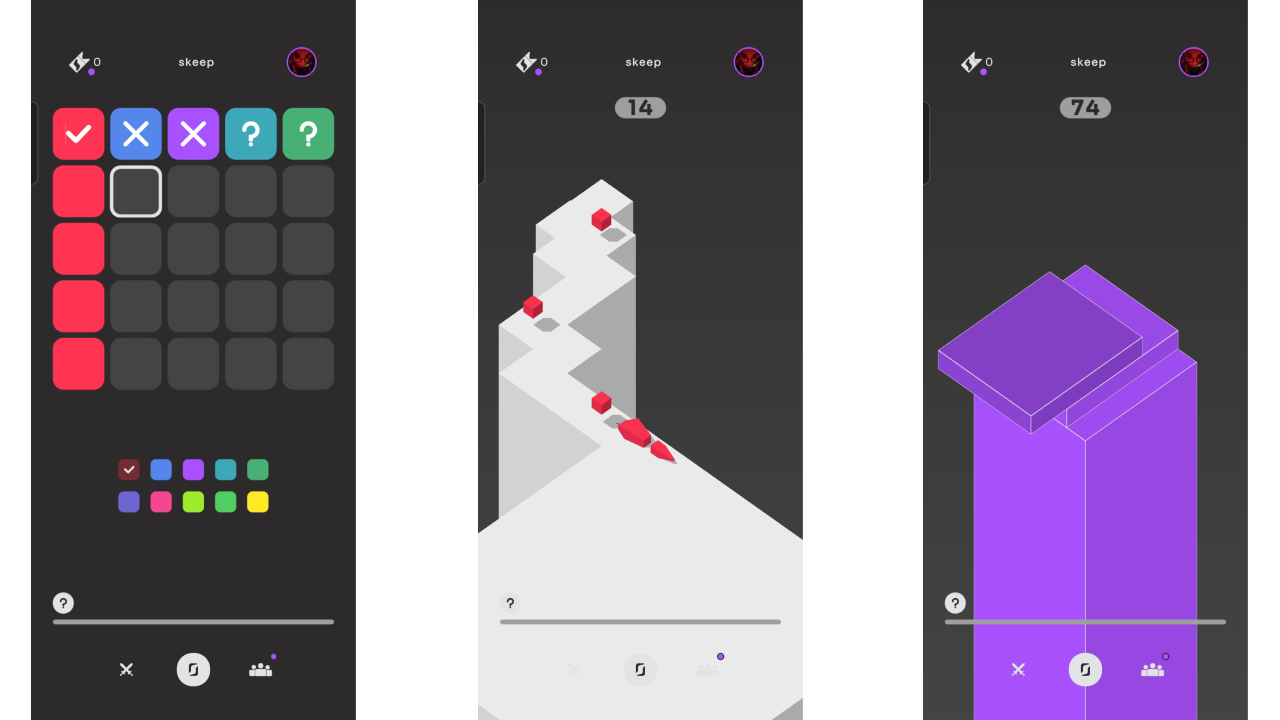
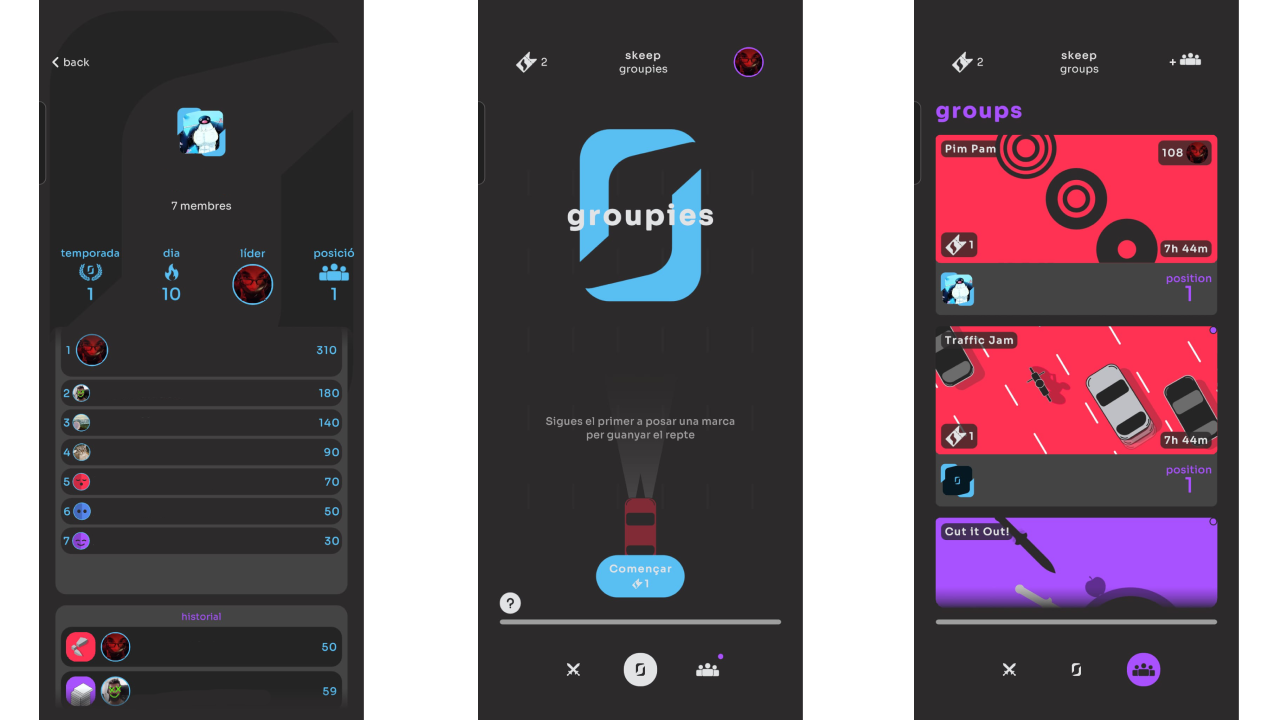
Added arrow, now all pictures are the same size

diff --git a/index.html b/index.html
@@ -12,6 +12,23 @@
 </head>
 
 <body>
+    <header class="site-nav fixed inset-x-0 top-0 z-50">
+        <!-- Navigation bar -->
+        <nav aria-label="Global" class="flex items-center justify-between px-6 lg:px-8" style="height: 60px;">
+            <div class="flex lg:flex-1">
+                <a href="/" class="-m-1.5 p-1.5">
+                    <span class="sr-only">skeep</span>
+                    <img src="./src/img/skeep-isotip-v1.2@512.png" alt="" class="h-8 w-auto" />
+                </a>
+            </div>
+            <!-- Desktop menu -->
+            <div class="hidden lg:flex lg:flex-1 lg:justify-end">
+                <p class="text-xs text-gray-400 md:text-sm">Copyright 2026 &copy; Social Jam S.L</p>
+            </div>
+        </nav>
+        <hr class="border-gray-200 dark:border-gray-700" />
+    </header>
+
     <div class="relative isolate bg-stone-950 h-screen overflow-hidden">
         <div aria-hidden="true" class="absolute inset-0 -z-10">
             <div style="
@@ -25,23 +42,6 @@
               background: rgba(0, 0, 0, 0);
             "></div>
         </div>
-        <header class="absolute inset-x-0 top-0 z-50">
-            <!-- Navigation bar -->
-            <nav aria-label="Global" class="flex items-center justify-between px-6 lg:px-8" style="height: 60px;">
-                <div class="flex lg:flex-1">
-                    <a href="/" class="-m-1.5 p-1.5">
-                        <span class="sr-only">skeep</span>
-                        <img src="./src/img/skeep-isotip-v1.2@512.png" alt="" class="h-8 w-auto" />
-                    </a>
-                </div>
-                <!-- Desktop menu -->
-                <div class="hidden lg:flex lg:flex-1 lg:justify-end">
-                    <p class="text-xs text-gray-400 md:text-sm">Copyright 2026 &copy; Social Jam S.L</p>
-                </div>
-            </nav>
-            <hr class="border-gray-200 dark:border-gray-700" />
-
-        </header>
 
         <div class="relative isolate px-6 pt-14 lg:px-8">
             <div class="mx-auto max-w-2xl py-32 sm:py-48 lg:py-56">
@@ -55,6 +55,11 @@
             </div>
         </div>
 
+        <div class="scroll-cue">
+            <span class="text-center">Discover more!</span>
+            <img src="./src/img/arrow.png" alt="" class="scroll-cue__arrow" />
+        </div>
+
     </div>
     <!-- /hero -->
 
@@ -65,18 +70,19 @@
                     <h2 class="content-title">A universe of games</h2>
                     <div class="content-eyebrow">Fun at your own pace, with or without friends, anywhere in the world</div>
                 </div>
-                <!-- Row 1: text / text -->
-                <div class="content-columns">
+                <!-- Row 1: text / image -->
+                <div class="content-columns content-columns--wide-right content-columns--center">
                     <div class="content-col">
                         <h3>Unlimited, endless fun all in one app</h3>
                         <p>skeep brings all your favourite single player minigames and multplayer turn-based games to your pocket!<br>
-                            Play what you like, and skeep what you don't! Scroll, play or start a match with friends in seconds, no downloads per game, no waiting around.<br> <br>
+                            Play what you like, and skeep what you don't! <br> 
+                            Scroll, play or start a match with friends in seconds, no downloads per game, no waiting around.<br> 
                         </p>
                         <h3>What is skeep?</h3>
                         <p>
                             <li><strong>Play</strong> logic, reflexes or dexterity-based games curated for quick play.</li>
                             <li><strong>Challenge</strong> friends directly in turn-based games to see who is the very best.</li>
-                            <li><strong>Compete</strong> against all your friends to see who holds the highest score in an endless, free-for-all mode.</li>
+                            <li><strong>Compete</strong> against all your friends daily to see who holds the highest score in an endless, free-for-all game-mode.</li>
                         </p>
                     </div>
                     <div class="content-col">
@@ -91,8 +97,7 @@
                 <div class="content-header">
                     <h2 class="content-title">PLAY</h2>
                 </div>
-                <div class="content-columns content-columns--wide-right content-columns--center">
-                    
+                <div class="content-columns content-columns--wide-left content-columns--center">
                     <div class="content-col">
                         <img src="./src/img/play-img.png" alt="skeep" />
                     </div>
@@ -114,7 +119,7 @@
                 <div class="content-columns content-columns--wide-right content-columns--center">
                     <div class="content-col">
                         <p>Challenge your friends to play turn-based minigames and find out who the better player! <br>
-                           Your historic score is kept in the app, so you will never have no doubts on who the very best is!</p>
+                           Your historic score is kept in the app, so you will never have doubts on who the very best is!</p>
                     </div>
                     <div class="content-col">
                         <img src="./src/img/challenge-img.png" alt="skeep" />
@@ -128,7 +133,7 @@
                 <div class="content-header">
                     <h2 class="content-title">COMPETE</h2>
                 </div>
-                <div class="content-columns content-columns--wide-right content-columns--center">
+                <div class="content-columns content-columns--wide-left content-columns--center">
                     <div class="content-col">
                         <img src="./src/img/compete-img.png" alt="skeep" />
                     </div>
@@ -143,7 +148,6 @@
         </section>
     </main>
 
-    <!-- Footer — scroll-aware, matching the legal pages -->
     <footer class="scroll-footer flex items-center justify-between p-6 lg:px-8">
         <div class="w-full md:w-1/2 md:text-start md:mb-0 mb-8">
             <p class="text-xs text-gray-400 md:text-sm">All Rights Reserved</p>
@@ -165,10 +169,10 @@
 
         function onScroll() {
             var y = window.scrollY;
-            var goingDown = y > lastY;
+            var goingUp = y < lastY;
             var pastThreshold = y > 80;
 
-            if (goingDown && pastThreshold) {
+            if (goingUp && pastThreshold) {
                 footer.classList.add('footer-hidden');
             } else {
                 footer.classList.remove('footer-hidden');

diff --git a/src/sections.css b/src/sections.css
@@ -1,8 +1,7 @@
 
-
 .content-section {
   background: #0a0a0f;
-  padding: 3rem 1.5rem;
+  padding: 6rem 1.5rem;
 }
 
 .content-section__inner {
@@ -47,6 +46,7 @@
   max-width: 46ch;
 }
 
+/* ── Columns ── */
 .content-columns {
   display: grid;
   grid-template-columns: 1fr 1fr;
@@ -137,8 +137,6 @@
   border: 1px solid rgba(255, 255, 255, 0.08);
 }
 
-/* Optional: wrap non-<img> media (video, canvas, an inline SVG) in
-   .content-media to get the same treatment as .content-col img. */
 .content-media {
   display: block;
   width: 100%;
@@ -147,8 +145,6 @@
   overflow: hidden;
 }
 
-/* Optional: a dashed placeholder frame for blocking out an image
-   column before real art exists. Swap for a real <img> later. */
 .content-media-placeholder {
   display: flex;
   align-items: center;
@@ -178,7 +174,7 @@
   right: 0;
   bottom: 0;
   z-index: 100;
-  background: rgba(10, 10, 15, 0.30);
+  background: rgba(10, 10, 15, 0.25);
   backdrop-filter: blur(16px);
   -webkit-backdrop-filter: blur(16px);
   border-top: 1px solid rgba(255, 255, 255, 0.08);
@@ -190,6 +186,53 @@
   transform: translateY(100%);
 }
 
-main {
-  padding-bottom: 5.5rem;
+.content-section:last-of-type {
+  padding-bottom: 11.5rem;
+}
+
+.site-nav {
+  background: rgba(10, 10, 15, 0.25);
+  backdrop-filter: blur(16px);
+  -webkit-backdrop-filter: blur(16px);
+}
+
+.scroll-cue {
+  position: absolute;
+  left: 50%;
+  bottom: 6rem;
+  transform: translateX(-50%);
+  z-index: 10;
+  display: flex;
+  flex-direction: column;
+  align-items: center;
+  gap: 0.5rem;
+  padding: 0.5rem;
+  opacity: 0.85;
+  transition: opacity 0.2s ease;
+}
+
+.scroll-cue:hover {
+  opacity: 1;
+}
+
+.scroll-cue__label {
+  font-family: 'Sora', sans-serif;
+  font-size: 12px;
+  font-weight: 700;
+  letter-spacing: 0.06em;
+  color: #fff;
+  white-space: nowrap;
+}
+
+.scroll-cue__arrow {
+  width: 18px;
+  height: auto;
+  /* source arrow points right — rotate to point down */
+  filter: brightness(0) invert(1);
+  animation: scroll-cue-bounce 1.8s ease-in-out infinite;
+}
+
+@keyframes scroll-cue-bounce {
+  0%, 100% { transform: translateY(0) rotate(90deg); }
+  50% { transform: translateY(8px) rotate(90deg); }
 }

diff --git a/src/legal.css b/src/legal.css
@@ -1,3 +1,4 @@
+
 :root {
   --bg:        #0a0a0f;
   --surface:   #111118;
@@ -10,14 +11,14 @@
   --text-muted: rgba(var(--brand-text-rgb), 0.45);
 
   --accent:       var(--brand-blue);
-  --accent-tint:  #a8c4ec; 
+  --accent-tint:  #a8c4ec; /* light blue, for text on dark surfaces */
   --accent-glow:  rgba(var(--brand-blue-rgb), 0.18);
 
   --accent-2:      var(--brand-red);
-  --accent-2-tint: #e8a3af; 
+  --accent-2-tint: #e8a3af; /* light red, for text on dark surfaces */
 
   --accent-success:      var(--brand-blue);
-  --accent-success-tint: #a8c4ec; 
+  --accent-success-tint: #a8c4ec; /* light blue, for text on dark surfaces */
 }
 
 html { scroll-behavior: smooth; }
@@ -30,10 +31,12 @@ body {
   -webkit-font-smoothing: antialiased;
 }
 
-/* ── Nav ── */
+/* ── Nav — fixed, translucent blurred background (matches footer), permanently visible regardless of scroll ── */
 nav.topnav {
-  position: sticky;
+  position: fixed;
   top: 0;
+  left: 0;
+  right: 0;
   z-index: 100;
   background: rgba(10,10,15,0.85);
   backdrop-filter: blur(16px);
@@ -44,12 +47,6 @@ nav.topnav {
   display: flex;
   align-items: center;
   justify-content: space-between;
-  transform: translateY(0);
-  transition: transform 0.3s ease;
-}
-
-nav.topnav.nav-hidden {
-  transform: translateY(-100%);
 }
 
 .nav-logo {
@@ -396,12 +393,16 @@ section { margin-bottom: 3.5rem; }
 .data-table td:first-child { font-weight: 500; color: var(--text); width: 32%; }
 .data-table tr:hover td { background: rgba(255,255,255,0.02); }
 
+/* ── Divider (used between the last section and the footer) ── */
 .section-divider {
   border: none;
   border-top: 1px solid var(--border);
   margin: 0 0 3.5rem;
 }
 
+/* ── Scroll-aware footer ──
+   Fixed to the bottom, same idea as the sticky top nav:
+   present while scrolling down, hidden while scrolling up. */
 .scroll-footer {
   position: fixed;
   left: 0;

diff --git a/src/theme.css b/src/theme.css
@@ -35,14 +35,12 @@
   font-display: swap;
 }
 
-/* ---- Brand palette (single source of truth) ---- */
 :root {
-  --brand-text:   #E2E3E4; /* base text color, all copy */
+  --brand-text:   #E2E3E4; 
   --brand-purple: #8C44D4;
   --brand-red:    #D42A44;
-  --brand-blue:   #466EC3; /* replaces the old "green" accent */
+  --brand-blue:   #466EC3; 
 
-  /* rgb triplets, for use inside rgba() */
   --brand-purple-rgb: 140, 68, 212;
   --brand-red-rgb:    212, 42, 68;
   --brand-blue-rgb:   70, 110, 195;
@@ -52,8 +50,9 @@
 /* ---- Base typography ---- */
 html, body {
   font-family: 'Sora', sans-serif;
-  font-weight: 400; /* Sora Regular */
+  font-weight: 400; 
   color: var(--brand-text);
+  background-color: #0a0a0f;
 }
 
 strong, b,
@@ -63,7 +62,6 @@ h1, h2, h3, h4, h5, h6,
   font-weight: 700; /* Sora Bold */
 }
 
-/* Utility text-color classes, always resolve to the base brand color */
 .text-white,
 .text-gray-400,
 .text-brand {
